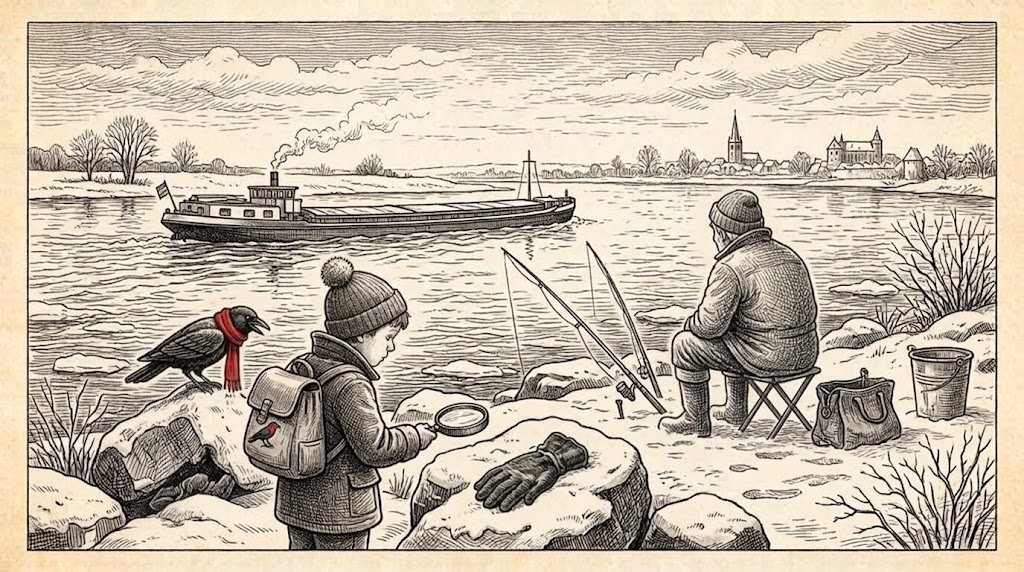
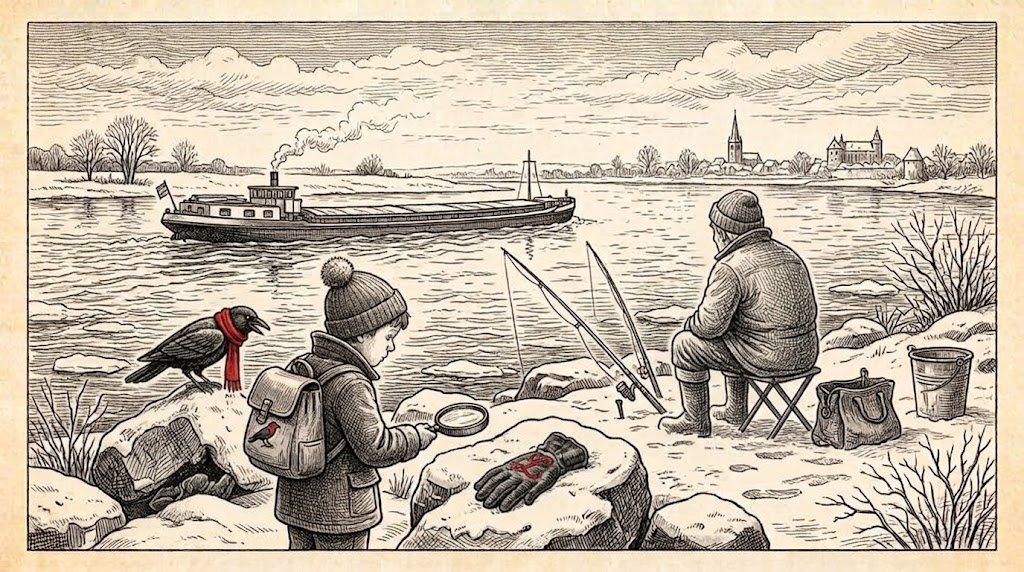
Tür 17: Handschuh mit rotem L
Claude-Session: https://claude.ai/code/session_01Hf322ReNK2QySXgWdtRhiH

diff --git a/sw.js b/sw.js
@@ -1,5 +1,5 @@
 /* Eigener Cache-Name mit Präfix "seidenschluessel-", damit sich die Apps unter derselben Webadresse nicht gegenseitig aufräumen. */
-const C="seidenschluessel-v18";const CORE=["./","index.html","familie-sync.js","manifest.webmanifest","icon-192.png","icon-512.png","bilder/tuer01.jpg","bilder/tuer02.jpg","bilder/tuer03.jpg","bilder/tuer04.jpg","bilder/tuer05.jpg","bilder/tuer06.jpg","bilder/tuer07.jpg","bilder/tuer08.jpg","bilder/tuer09.jpg","bilder/tuer10.jpg","bilder/tuer11.jpg","bilder/tuer12.jpg","bilder/tuer13.jpg","bilder/tuer14.jpg","bilder/tuer15.jpg","bilder/tuer16.jpg","bilder/tuer17.jpg"];
+const C="seidenschluessel-v19";const CORE=["./","index.html","familie-sync.js","manifest.webmanifest","icon-192.png","icon-512.png","bilder/tuer01.jpg","bilder/tuer02.jpg","bilder/tuer03.jpg","bilder/tuer04.jpg","bilder/tuer05.jpg","bilder/tuer06.jpg","bilder/tuer07.jpg","bilder/tuer08.jpg","bilder/tuer09.jpg","bilder/tuer10.jpg","bilder/tuer11.jpg","bilder/tuer12.jpg","bilder/tuer13.jpg","bilder/tuer14.jpg","bilder/tuer15.jpg","bilder/tuer16.jpg","bilder/tuer17.jpg"];
 self.addEventListener("install",e=>{e.waitUntil(caches.open(C).then(c=>c.addAll(CORE)).then(()=>self.skipWaiting()));});
 self.addEventListener("activate",e=>{e.waitUntil(caches.keys().then(ks=>Promise.all(ks.filter(k=>k.startsWith("seidenschluessel-")&&k!==C).map(k=>caches.delete(k)))).then(()=>self.clients.claim()));});
 /* Nur eigene Dateien cachen – Anfragen an den Familienspeicher gehen immer frisch ins Netz. */
